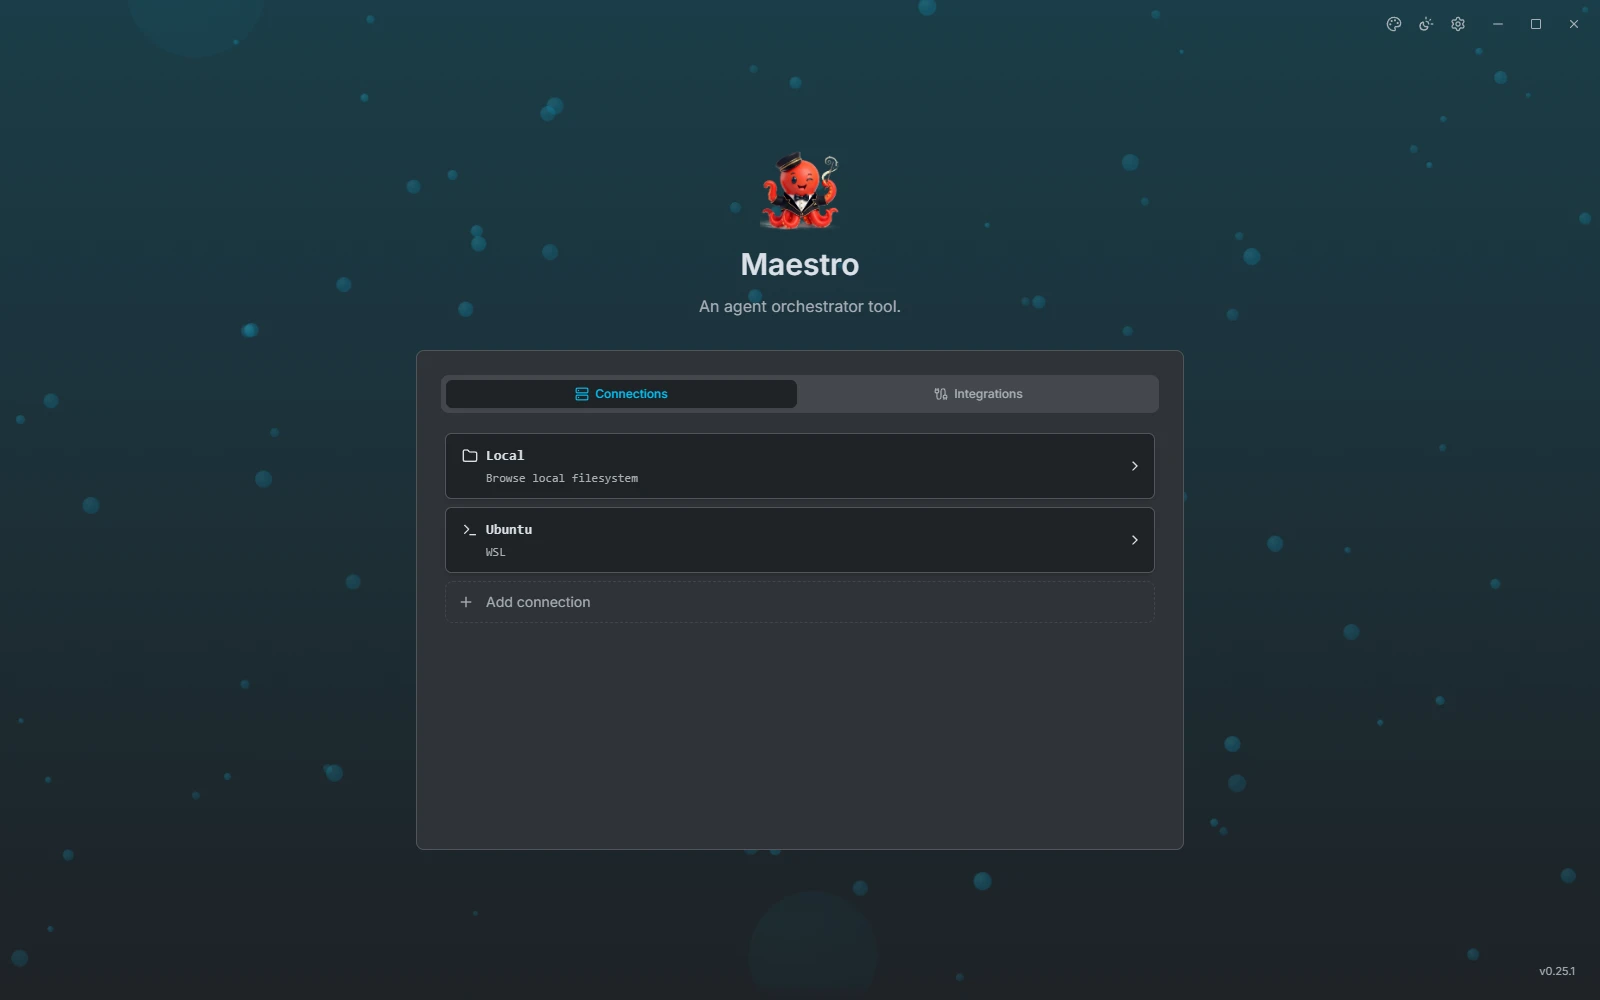
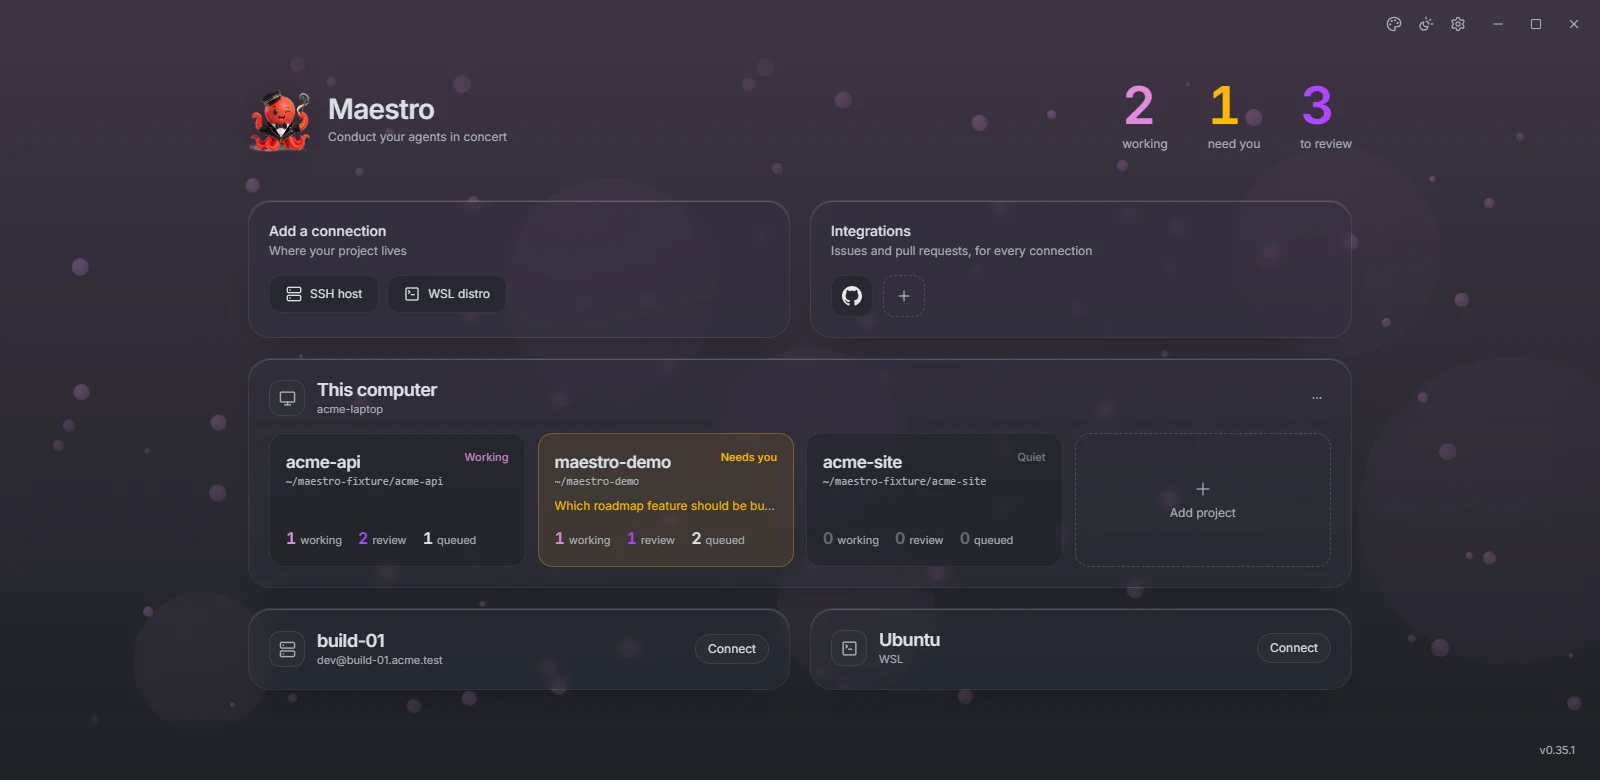
docs(website): document Home in place of the start screen
The guide still described the project picker that #474 replaced. The
start screen page becomes Home: the scoreboard, connection panels and
their menu, project tiles, the Add a project dialog, the header's
project switcher and the Integrations panel, with fresh captures from
a throwaway fixture. Settings, shortcuts, Collections, Workspaces and
Agents pick up the smaller changes since: settings reachable from
Home, stop server returning to Home, the whole automation row opening
its runs, background worktree deletion, and tasks running with every
window closed.

diff --git a/website/.vitepress/config.ts b/website/.vitepress/config.ts
@@ -43,7 +43,7 @@ export default defineConfig({
         text: "Guide",
         items: [
           { text: "Getting started", link: "/guide/getting-started" },
-          { text: "Start screen", link: "/guide/start-screen" },
+          { text: "Home", link: "/guide/home" },
         ],
       },
       {

diff --git a/website/guide/home.md b/website/guide/home.md
@@ -1,0 +1,93 @@
+# Home
+
+Maestro opens on Home, a board of every machine your agents run on and every project they work in. Projects keep running in the background server whether or not a window has them open, so Home shows their live state without opening any of them.
+
+<img src="../../docs/assets/connections.webp" alt="Maestro's Home dashboard with the scoreboard, the Add a connection and Integrations panels, and This computer's project tiles" width="960" />
+
+At the top, three counts add up every connected machine: agents **working**, things that **need you**, and tasks **to review**. The cog in the corner opens the application settings, and the version in the bottom right corner shows when an update is ready.
+
+## Connections
+
+A connection is the machine your agents run on. **This computer** is always there. **Add a connection** adds the others:
+
+| Connection | Where the agent runs                                          | Authentication                   |
+| ---------- | ------------------------------------------------------------- | -------------------------------- |
+| Local      | Your machine                                                  | None                             |
+| SSH host   | A remote Linux host, given as `user@host` or `user@host:port` | SSH agent, key file, or password |
+| WSL distro | A distro on your Windows machine; stopped distros are started | None                             |
+| Container  | A running Docker, Podman or nerdctl container on your machine | None                             |
+
+Maestro deploys its own small server to the machine on first use, so the machine needs nothing but the agent. Connecting shows each step in place: reaching the machine, installing the Maestro server, starting it, and reading its projects. When a tool the agents need is missing you can point Maestro at it with an absolute path, or skip it.
+
+Each connection is a panel. Home connects to This computer on its own; every other connection waits for you to press **Connect**. A password is asked for inside the panel, with **Remember in the system keychain**. Once connected, a connection stays connected until you close Maestro.
+
+Hover an SSH connection's name and press the pencil to rename it. Click a connected panel's background to minimize it to one line of project chips, and click again to expand it.
+
+### The connection menu
+
+The **⋯** button on a connected panel holds:
+
+- **Settings**: the [connection's settings](./settings#connection), without opening a project.
+- **Change sign-in** (SSH): switch between SSH agent, key file and password.
+- **Restart server** and **Stop server**: the background server that runs agents, tasks and automations. Both confirm first and list what they affect: agents stopped mid-task, task pipelines paused, scheduled automations skipped, other windows losing their projects. A stopped server starts again the next time you open a project on it, or from **Start server** in the same menu.
+- **Remove connection**: forgets the connection. Its projects and their boards stay on the machine, and adding the connection again brings them back.
+
+A connection that stops answering is marked **Unreachable**, with **Try again** in its menu. Its projects keep their state and come back when it does.
+
+## Projects
+
+A connected panel shows one tile per project. Each tile has:
+
+- the name and path;
+- a status: **Working** while an agent runs, **Needs you** when one waits on a permission or a question, **Idle** with open tasks but no agent, **Quiet** with nothing open. A tile that needs you is tinted amber;
+- one line of context: what the agent is waiting on, a running automation, or who has the project open;
+- how many tasks are working, in review and queued.
+
+Click a tile to open the project. Hover it and press **✕** to remove it from Home; the board stays on the server, a toast offers **Undo**, and opening the folder again brings the tile back.
+
+The **Add project** tile at the end of each panel offers three ways in:
+
+- **Open a folder**: a folder already on that machine.
+- **Clone**: from a connected provider or any git URL.
+- **Start fresh**: a new, empty repository.
+
+A folder that is not a git repository can be initialised on the spot, or opened without git.
+
+<img src="../../docs/assets/home-add-project.webp" alt="The Add a project dialog with Open a folder, Clone and Start fresh" width="720" />
+
+### Moving between projects
+
+Inside a project, the left of the header reads **Home / connection / project**.
+
+- The house goes back to Home and releases the project. An amber dot on it means another project needs you, and its tooltip says which.
+- The connection's name opens a menu of every connection, each with its projects beside it. A connection that is not connected yet can be connected from there.
+- The project's name opens a menu of this connection's projects, and **Add project**.
+
+Opening a project from these menus switches the window in place and releases the one you were on.
+
+<img src="../../docs/assets/project-switcher.webp" alt="The header's connection menu with This computer's projects listed beside it as small tiles" width="640" />
+
+### A project open elsewhere
+
+A project is open in one Maestro window at a time. A project another window holds shows a lock and says where it is open. Clicking it offers **Request takeover**: the other window is asked, and gives the project up when its user agrees or does not answer within ten seconds, counted down on the button. The agent sessions keep running either way.
+
+## Integrations
+
+Integrations connect Maestro to issue trackers and code hosts. You add credentials once, on Home, and every project on every connection can then use them.
+
+| Provider     | Import issues | Open pull requests                          |
+| ------------ | ------------- | ------------------------------------------- |
+| GitHub       | ✓             | ✓                                           |
+| GitLab       | ✓             | ✓                                           |
+| Gitea        | ✓             | ✓                                           |
+| Forgejo      | ✓             | ✓                                           |
+| Azure DevOps | ✓             | ✓                                           |
+| Bitbucket    |               | ✓ (no CI status or pull-request search yet) |
+| Jira Cloud   | ✓             |                                             |
+| Linear       | ✓             |                                             |
+
+The **Integrations** panel shows one tile per provider, with a count when you have several accounts on it. Hover a tile, or click it to keep it open, to see its accounts; click an account for its details, **Edit credentials** and **Disconnect**. An account the `gh` CLI provides is managed there instead. **+** adds an integration, and **Add another account** adds one more of the same provider.
+
+<img src="../../docs/assets/integrations.webp" alt="The Integrations panel with a provider's hover card listing its account" width="960" />
+
+Import is one way: an issue becomes a task, but Maestro does not write status back to the tracker. Each project picks its provider under [Settings, Issue tracking](./settings#issue-tracking) and [Git](./settings#git). Tokens are kept in your operating system's keychain.

diff --git a/website/guide/settings.md b/website/guide/settings.md
@@ -4,7 +4,7 @@ Settings open as a dialog over any tab, from the cog in the header or with **Ctr
 
 The top strip shows the version, **Check for updates**, and **Install** when an update is ready (installing stops running agent sessions). Its menu turns **Auto-update** on or off.
 
-Pages come in three groups. **Project** and **Connection** pages appear only with a project open; the **Application** pages are also reachable from the start screen.
+Pages come in three groups. **Project** pages appear only with a project open. On [Home](./home), the cog opens the **Application** pages, and **Settings** in a connection's **⋯** menu opens that connection's pages too.
 
 <img src="../../docs/assets/settings-agents.webp" alt="The Agents settings page: installed agents with the default marked, and one profile slot per pipeline role" width="960" />
 
@@ -20,7 +20,7 @@ Pages come in three groups. **Project** and **Connection** pages appear only wit
 
 - **Default workspace**: where new tasks and new sessions start out.
 - **Default base branch**: **Auto** uses the branch the repository is on.
-- **Git remote**: the remote Maestro pushes to and lists branches from, with the code host's status and **Connect** when an [integration](./start-screen#integrations) is missing.
+- **Git remote**: the remote Maestro pushes to and lists branches from, with the code host's status and **Connect** when an [integration](./home#integrations) is missing.
 - **When a task is approved**: the default choice in the Approve dialog, one of **Merge locally**, **Open a pull request** or **Push only**.
 
 <img src="../../docs/assets/settings-git.webp" alt="The Git settings page with the default workspace, base branch, git remote and approve action" width="960" />
@@ -47,7 +47,7 @@ How many agents Auto mode runs at once on this machine: estimated **From free me
 
 ### Background server
 
-The server that runs agent sessions and automations, and keeps running after Maestro closes. **Start automatically** starts it at login (on a Linux host, at boot through systemd or cron), so schedules keep firing after a restart without opening Maestro. The page counts live sessions and automation runs. **Stop server** ends them all and closes the project.
+The server that runs agent sessions and automations, and keeps running after Maestro closes. **Start automatically** starts it at login (on a Linux host, at boot through systemd or cron), so schedules keep firing after a restart without opening Maestro. The page counts live sessions and automation runs. **Stop server** ends them all and takes you back to [Home](./home) at once, where the connection reads **Server stopped** when the stop is done. Home's connection menu can also start, stop and restart the server.
 
 <img src="../../docs/assets/settings-background-server.webp" alt="The Background server page with Start automatically, its uptime and Stop server" width="960" />
 

diff --git a/docs/presentation-assets.md b/docs/presentation-assets.md
@@ -111,8 +111,8 @@ Edit out waiting time before export. Keep the final animation under 3 MB, target
 | `side-panel-canvas.webp` | A session whose Canvas tab shows a dashboard the agent rendered                                    | Agents can answer with live UI                                                            |
 | `rendering.webp`         | One reply with a Mermaid diagram, an SVG, an image, KaTeX and a SMILES fence, cropped to the reply | The stream renders rich output inline                                                     |
 | `workspaces.webp`        | The Workspaces view with a handful of worktrees and the prune action visible                       | Worktrees are first-class and cleaned up from the app                                     |
-| `connections.webp`       | The start screen with Local plus one remote connection                                             | Agents can run somewhere other than the laptop                                            |
-| `integrations.webp`      | The Add integration panel                                                                          | Which trackers and forges Maestro talks to                                                |
+| `connections.webp`       | Home with project tiles on This computer and two connections not connected yet                     | Agents can run somewhere other than the laptop                                            |
+| `integrations.webp`      | Home's Integrations panel with a provider's account card pinned open                               | Which trackers and forges Maestro talks to                                                |
 | `settings-agents.webp`   | Settings → Agents with the four pipeline roles                                                     | Each stage of a task can run on its own agent                                             |
 | `issue-import.webp`      | A populated GitHub Issues or Jira import view with one issue selected                              | Existing tracker work can become a Maestro task                                           |
 

diff --git a/website/guide/agents.md b/website/guide/agents.md
@@ -118,7 +118,9 @@ A canvas runs in a sandbox: it cannot reach Maestro, your files, or the rest of 
 
 ## Sessions outlive the window
 
-Agents run in a background Maestro server on each connection, not inside the window. Close Maestro and a running session finishes its turn; reopen it and you pick the session up where it is, including any question the agent was waiting on. A session nobody is watching is closed a minute or two after its turn ends, and reopened from history when you need it.
+Agents run in a background Maestro server on each connection, not inside the window. Close Maestro, or go back to [Home](./home), and a running session finishes its turn; come back and you pick the session up where it is, including any question the agent was waiting on. A session nobody is watching is closed a minute or two after its turn ends, and reopened from history when you need it.
+
+Tasks live in the same server, so the [task pipeline](./tasks#how-a-task-moves) keeps going with every window closed: queued tasks start, plans and reviews run, and Home shows what is waiting on you when you return. Only a task waiting on its pull request needs a window open, since checking the forge uses your keychain token.
 
 ## Agents that talk back
 

diff --git a/website/guide/collections.md b/website/guide/collections.md
@@ -8,7 +8,7 @@ An automation is a prompt, an agent and a workspace that run without you startin
 
 ### The dashboard
 
-Each automation is a row with a switch that pauses or resumes its trigger. **Run now** always works, paused or not. The row shows the schedule and the next run, the agent, the model and the workspace, and while a run is going, **Join** to watch it, **Answer** when it is waiting on you, and **Stop**. Click the name to see its last runs. The **⋯** menu holds **Edit**, **Save as template** and **Delete**.
+Each automation is a row with a switch that pauses or resumes its trigger. **Run now** always works, paused or not. The row shows the schedule and the next run, the agent, the model and the workspace, and while a run is going, **Join** to watch it, **Answer** when it is waiting on you, and **Stop**. Click the row to see its last runs; the count beside the chevron says how many there are. The **⋯** menu holds **Edit**, **Save as template** and **Delete**.
 
 <img src="../../docs/assets/automations.webp" alt="The automations dashboard with a webhook automation, a scheduled one and a paused one, and a run in Recent runs" width="960" />
 

diff --git a/website/guide/workspaces.md b/website/guide/workspaces.md
@@ -13,7 +13,7 @@ Each card shows the branch, time since the last activity, lines added and remove
 - **Push** (↑N) and **Pull** (↓N) sync the branch with the remote in one click. Push publishes a branch the remote does not have yet. Pull asks first if a session is working in the worktree.
 - **Used by** lists the task, agent sessions and shells using the worktree. Click one to jump to it.
 - **Start session** opens a new session in the worktree, when no agent is already there.
-- The trash button deletes the worktree, and optionally its branch when that branch exists only locally.
+- The trash button deletes the worktree, and optionally its branch when that branch exists only locally. The deletion runs in the background: the card dims and reads **Deleting** until it is gone.
 - Clicking the card opens its diff.
 
 **Search branches...** (**Ctrl+F**) filters the cards, and **Refresh** (**Ctrl+R**) fetches from the remote before updating them. **New Worktree** (**Ctrl+N**) creates one on a new or an existing branch.

diff --git a/website/guide/shortcuts.md b/website/guide/shortcuts.md
@@ -18,5 +18,3 @@ Hold **Ctrl** for about a second to see the shortcuts drawn over the buttons the
 | Agents                    | Ctrl+H          | Session history                        |
 | Workspaces                | Ctrl+N          | New worktree                           |
 | Workspaces                | Ctrl+R          | Refresh                                |
-| Start screen projects     | Esc             | Back to connections                    |
-| Start screen projects     | Del             | Remove the focused recent project      |

diff --git a/website/index.md b/website/index.md
@@ -43,8 +43,8 @@ features:
     link: /guide/custom-agents
   - title: Remote connections
     details: Run agents locally, over SSH, in WSL or in a container.
-    link: /guide/start-screen#connections
+    link: /guide/home#connections
   - title: Integrations
     details: Import issues from GitHub, GitLab, Jira, Linear and others. Open pull requests on your forge.
-    link: /guide/start-screen#integrations
+    link: /guide/home#integrations
 ---
